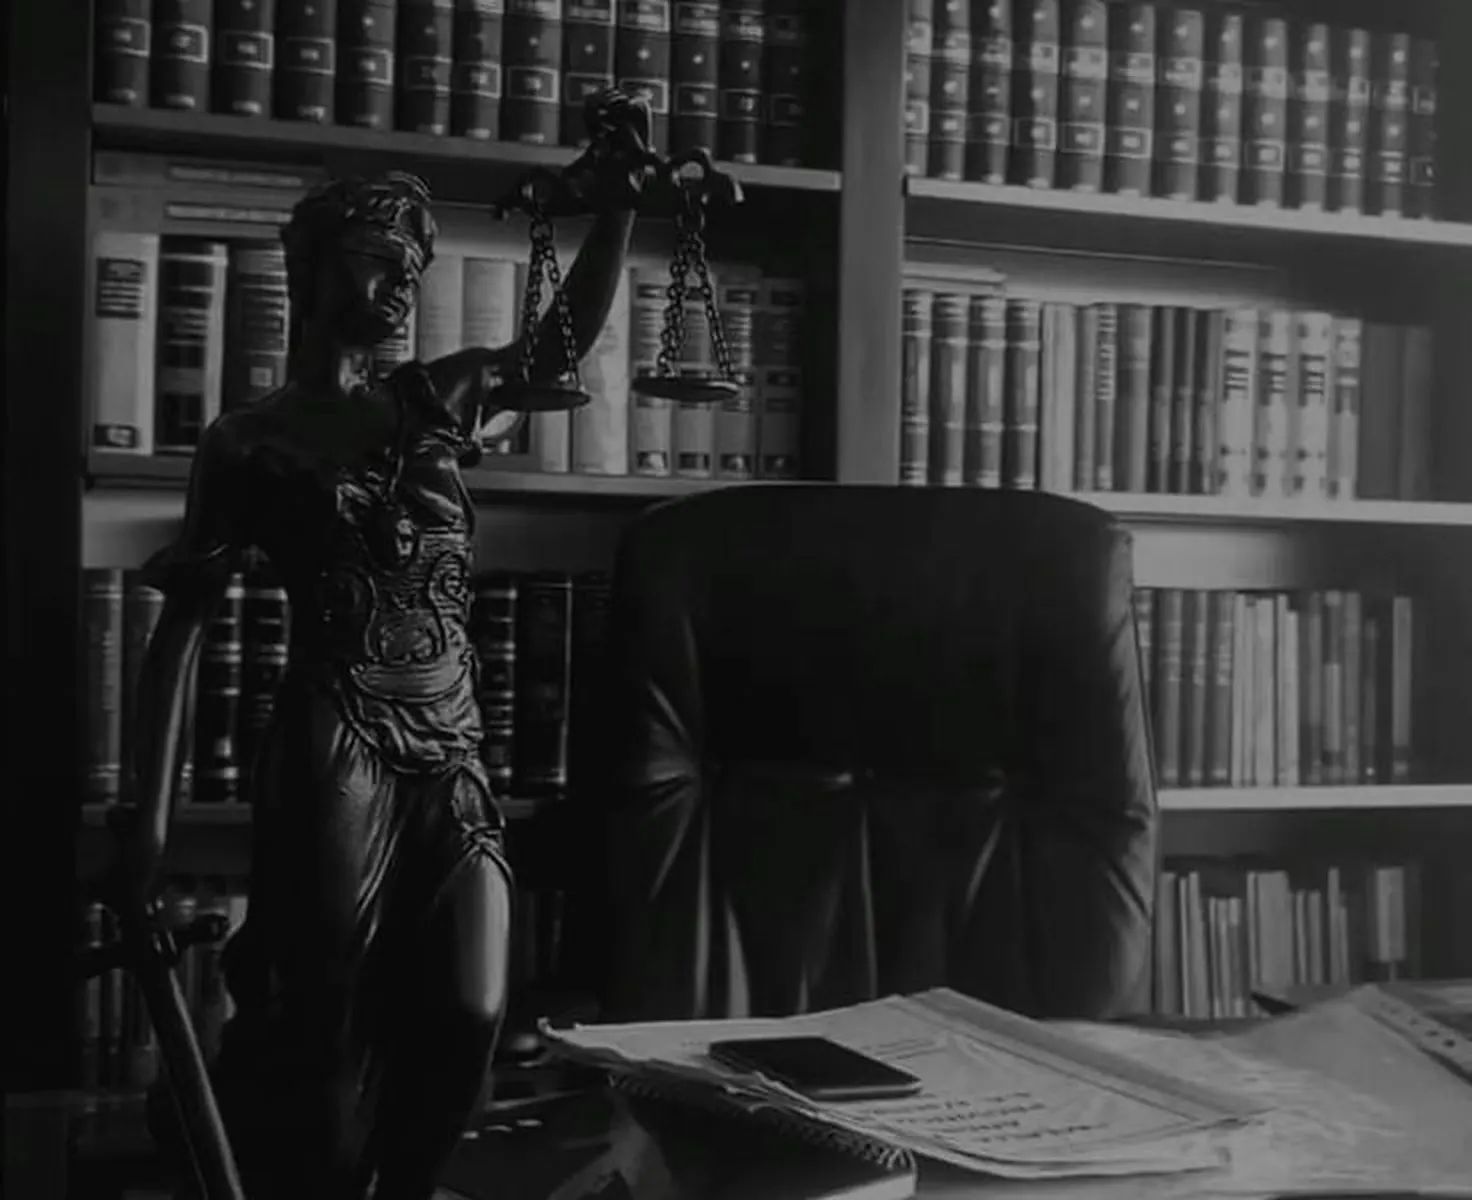
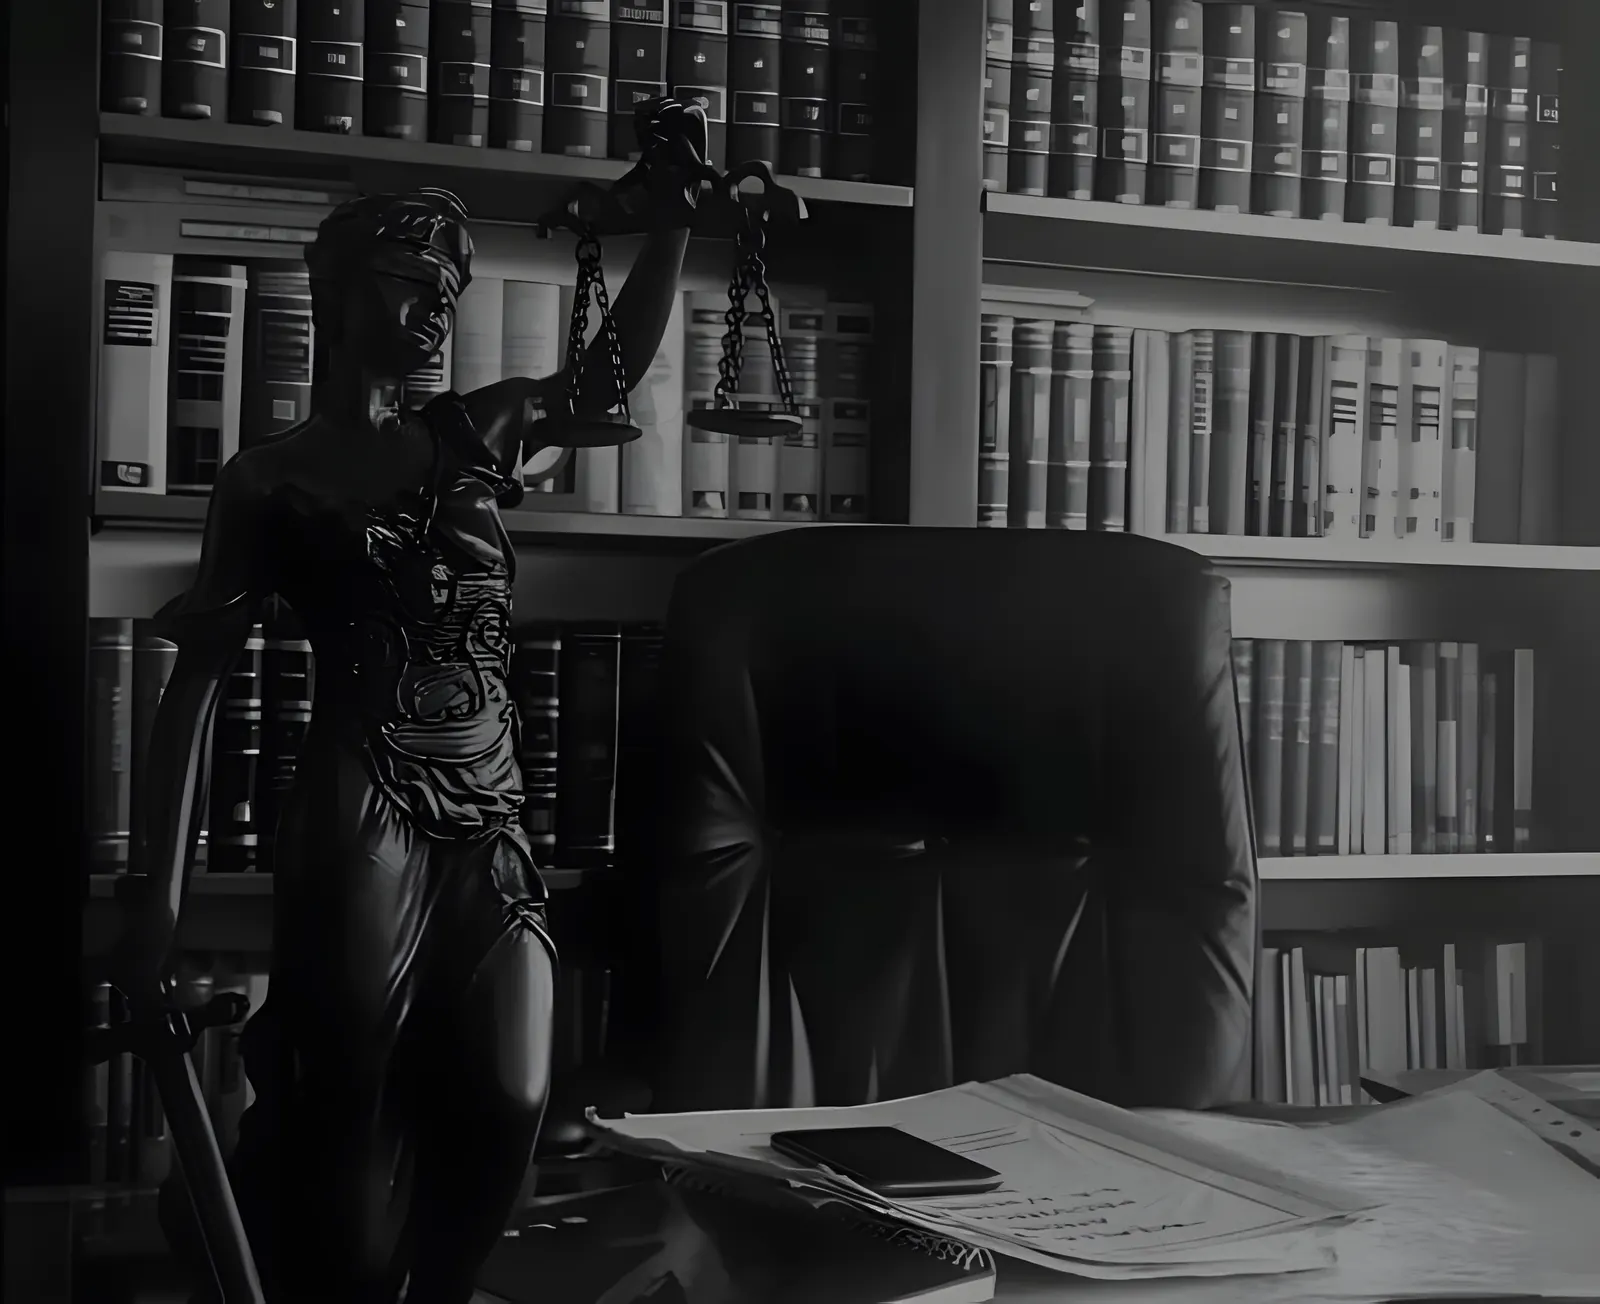
НОРМА: «Обо мне» — голова Фемиды и весы вместо всей фигуры, библиотека увеличена нейросетью
Шапка «Обо мне» широкая и низкая, и вертикальный снимок со стола виден
в ней полосой в четверть высоты: целиком фигура выходила обрубком торса.
Теперь обрезка — голова, плечи и весы.

Claude-Session: https://claude.ai/code/session_018oEVZMechjsETy2AwcTue8

diff --git a/norma-site/scripts/prepare-head-photos.py b/norma-site/scripts/prepare-head-photos.py
@@ -61,10 +61,13 @@ SPEC = {
     'themis-books': {'crop': None},
     # Тёмная библиотека: полоса от весов до стола с бумагами.
     'themis-library': {'crop': (0, 280, 736, 880)},
-    # Стол с Фемидой и молотком: полоса от весов до книг. Ноутбук справа
-    # отрезан — иначе он, тёмный прямоугольник, встал бы на виду, а сама
-    # Фемида ушла бы в середину шапки, под маску.
-    'themis-desk': {'crop': (0, 170, 465, 700)},
+    # Стол с Фемидой и молотком: голова, плечи и весы. Шапка «Обо мне»
+    # широкая и низкая (на 1440 px — 3,7 к 1), и от вертикального кадра
+    # в ней видна полоса в четверть высоты: целиком, от весов до книг,
+    # фигура выходила обрубком торса. Ноутбук справа отрезан — иначе он,
+    # тёмный прямоугольник, встал бы на виду, а сама Фемида ушла бы
+    # в середину шапки, под маску.
+    'themis-desk': {'crop': (0, 150, 465, 360)},
     # Стол с книгой «THE LAW»: полоса ниже надписи, отражённая.
     'law-table': {'crop': (0, 140, 626, 375), 'flip': True},
     # Зал суда: скамьи и барьер — ниже флага США и надписи на портале.

diff --git a/norma-site/README.md b/norma-site/README.md
@@ -1142,7 +1142,7 @@ node scripts/test-hero-photo.mjs   # в другом
 | Раздел | Кадр |
 |---|---|
 | База знаний | Фемида на фоне книжных полок |
-| Обо мне | Фемида и судейский молоток на столе с книгами |
+| Обо мне | Фемида с весами — голова и плечи (снимок со стола с молотком) |
 | Контакты | Фемида в тёмной библиотеке (приглушённо: справа стоят контакты) |
 | Кому нужна СРО | Молоток и весы на тёмном столе |
 | Юридические услуги | Зал суда: скамьи и барьер |
@@ -1156,14 +1156,19 @@ node scripts/test-hero-photo.mjs   # в другом
   текст, и маска их гасит. Взята полоса ниже надписи (молоток, весы)
   и отражена: предметы ушли вправо, где их видно. Отражать можно было
   только потому, что в этой полосе нет букв.
-- **У «Обо мне» отрезан ноутбук** — тёмный прямоугольник вставал
-  на самом виду, а Фемида уходила под текст.
+- **У «Обо мне» — только голова Фемиды и весы.** Шапка широкая и низкая,
+  и от вертикального снимка в ней видна полоса в четверть высоты: целиком,
+  от весов до книг, фигура выходила обрубком торса. Ноутбук справа
+  отрезан — тёмный прямоугольник вставал на самом виду.
 - **Снимки маленькие** (600–736 px по ширине), а шапка на компьютере
   во весь экран. Поэтому они увеличены нейросетью Real-ESRGAN вчетверо:
   края и фактура чище, чем при обычном растяжении.
 
 Текст поверх всех пяти шапок читается: проверка `test-hero-photo`
 меряет пиксели под каждой строкой на трёх ширинах, норма 4,5:1.
+
+Снимки вышли архивом v39. **Переобход в Вебмастере после него не нужен:**
+текст страниц не менялся, поменялся только фон шапок.
 
 **Права на снимки.** Два снимка шириной ровно 736 px — это стандартный
 размер картинок Пинтереста, и все пять похожи на фотосток. Если вы взяли их

diff --git a/CLAUDE.md b/CLAUDE.md
@@ -227,7 +227,10 @@
   WE TRUST» — положением кадра их не спрятать, на какой-то ширине
   выглянут. «THE LAW» — полоса ниже надписи, отражённая (предметы ушли
   вправо, под маской их не видно было бы); отражать можно только кадр
-  без букв. Снимки 600–736 px увеличены Real-ESRGAN x4plus через
+  без букв. У `themis-desk` — голова и весы: вертикальный кадр в шапке
+  3,7 к 1 виден полосой в четверть высоты, целиком фигура выходила
+  обрубком торса.
+  Снимки 600–736 px увеличены Real-ESRGAN x4plus через
   программный Vulkan (`mesa-vulkan-drivers`, lavapipe, ~7 мин на кадр,
   кеш по содержимому). Права не подтверждены (два кадра ровно 736 px —
   размер Пинтереста) — в README предупреждение, как у sro-site.
